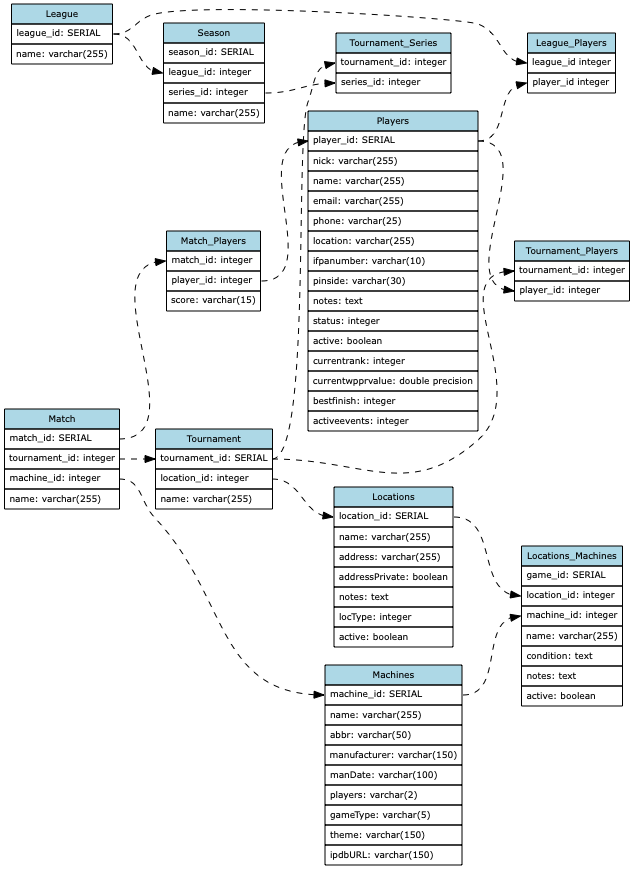
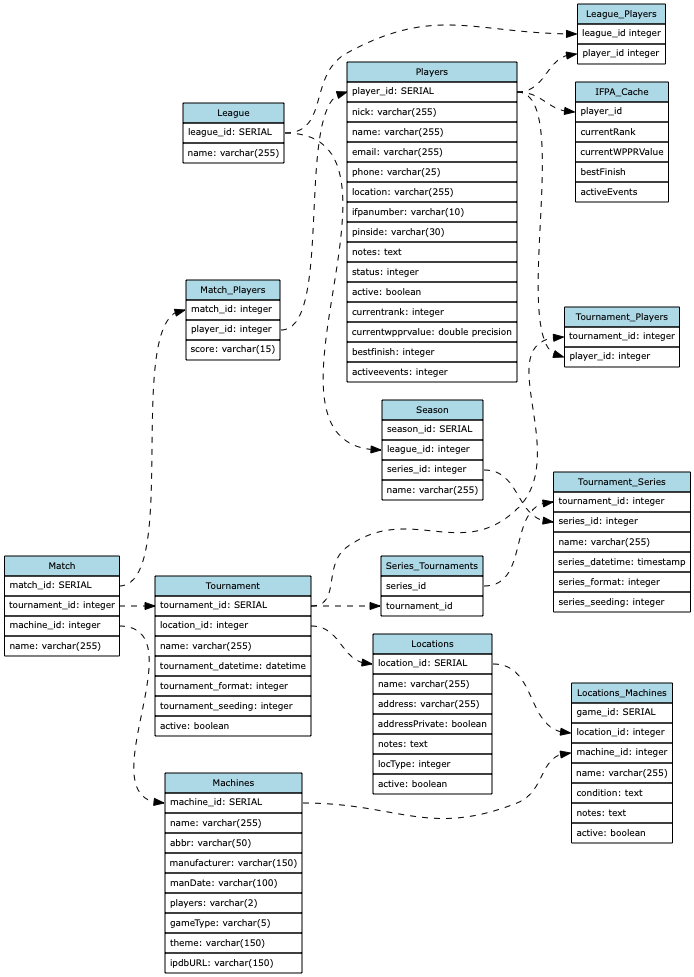
Adding stubb for tournament classes
Adjusted schema for association table tournament-series.

Will enable a series to have many tournaments.

Updated documentation and diagrams accordingly.

diff --git a/flask/run.py b/flask/run.py
@@ -4,6 +4,7 @@ from flask import Flask, jsonify
 from playfield import machine
 from playfield import player
 from playfield import location
+from playfield import tournament
 
 app = Flask(__name__)
 # Use Flask RESTful API
@@ -45,6 +46,21 @@ api.add_resource(location.AddGameToLocation, '/api/v1/resources/location/add_gam
 api.add_resource(location.UpdateGameOnLocation, '/api/v1/resources/location/update_game_on_location')
 api.add_resource(location.DeleteGameFromLocation, '/api/v1/resources/location/delete_game_from_location')
 api.add_resource(location.SetGameActive, '/api/v1/resources/location/set_game_active/<int:game_id><string:active>')
+
+api.add_resource(tournament.AllTournaments, '/api/v1/resources/tournaments/all_tournaments')
+api.add_resource(tournament.ActiveTournaments, '/api/v1/resources/tournaments/active_tournaments')
+api.add_resource(tournament.TournamentById, '/api/v1/resources/tournaments/tournament_by_id/<int:id>')
+api.add_resource(tournament.TournamentByName, '/api/v1/resources/tournaments/tournament_by_name/<string:name>')
+api.add_resource(tournament.TournamentByLocation, '/api/v1/resources/tournaments/tournament_by_location/<int:id>')
+api.add_resource(tournament.TournamentPlayers, '/api/v1/resources/tournaments/tournament_players/<int:id>')
+api.add_resource(tournament.AddTournament, '/api/v1/resources/tournaments/add_tournament')
+api.add_resource(tournament.UpdateTournament, '/api/v1/resources/tournaments/update_tournament')
+api.add_resource(tournament.DeleteTournament, '/api/v1/resources/tournaments/delete_tournament')
+api.add_resource(tournament.SetTournamentActive, '/api/v1/resources/tournaments/set_tournament_active/<int'
+                                                 ':tournament_id><string:active>')
+
+api.add_resource(tournament.AddTournamentPlayer, '/api/v1/resources/tournaments/add_tournament_player')
+api.add_resource(tournament.DeleteTournamentPlayer, '/api/v1/resources/tournaments/delete_tournament_player')
 
 # Define general non API endpoints
 deployed_version = "v1"

diff --git a/flask/playfield/tournament.py b/flask/playfield/tournament.py
@@ -1,0 +1,98 @@
+from flask import Flask, jsonify, request
+from flask_restful import Resource, Api
+from .response import Response
+from .data import Data
+
+field_names = [
+    "tournament_id",
+    "location_id",
+    "name",
+    "tournament_datetime",
+    "tournament_format",
+    "tournament_seeding",
+    "active"
+]
+
+
+class AllTournaments(Resource):
+
+    @staticmethod
+    def get():
+        print("ALL TOURNAMENTS!")
+
+
+class ActiveTournaments(Resource):
+
+    @staticmethod
+    def get():
+        print("ACTIVE TOURNAMENTS!")
+
+
+class TournamentById(Resource):
+
+    @staticmethod
+    def get(tournament_id):
+        print("TOURNAMENT BY: {}".format(tournament_id))
+
+
+class TournamentByName(Resource):
+
+    @staticmethod
+    def get(tournament_name):
+        print("TOURNAMENT BY: {}".format(tournament_name))
+
+
+class TournamentByLocation(Resource):
+
+    @staticmethod
+    def get(location_id):
+        print("ALL TOURNAMENTS AT LOCATION: {}".format(location_id))
+
+
+class TournamentPlayers(Resource):
+
+    @staticmethod
+    def get(tournament_id):
+        print("LIST ALL PLAYERS FOR TOURNAMENT: {}".format(tournament_id))
+
+
+class AddTournament(Resource):
+
+    @staticmethod
+    def post():
+        print("ADDING NEW TOURNAMENT")
+
+
+class UpdateTournament(Resource):
+
+    @staticmethod
+    def post():
+        print("UPDATING EXISTING TOURNAMENT")
+
+
+class DeleteTournament(Resource):
+
+    @staticmethod
+    def delete():
+        print("DELETING EXISTING TOURNAMENT")
+
+
+class SetTournamentActive(Resource):
+
+    @staticmethod
+    def get(tournament_id, active):
+        print("SETTING {} active={}".format(tournament_id, active))
+
+
+class AddTournamentPlayer(Resource):
+
+    @staticmethod
+    def post():
+        print("ADDING PLAYER TO TOURNAMENT")
+
+
+class DeleteTournamentPlayer(Resource):
+
+    @staticmethod
+    def post():
+        print("REMOVING PLAYER FROM TOURNAMENT")

diff --git a/README.md b/README.md
@@ -14,39 +14,52 @@ Intended to be deployed via Docker Compose
 
 API
 ---
-|Class       | Parameters | HTTP Request   | Description  |
-| :--------- |:---------| :------------- | :----------: |
-| machine  | None         | **GET** /machine/all_machines                           | List all machines currently added     |
-| machine  | machine_id   | **GET** /machine/machine_by_id/<id>                      | Get machines with provided id         |
-| machine  | machine_name | **GET** /machine/machine_by_name/<name>                 | Get machines with provided name       |
-| machine  | abbreviation | **GET** /machine/machine_by_abbr/<abbr>                 | Get machines with specific abbr       |
-| machine  | manufacturer | **GET** /machine/machine_by_manufacturer/<manufacturer> | Get machines by provided manufacturer |
-| machine  | machine spec | **PUT** /machine/add_machine                            | Add new machine to database           |
-| machine  | machine spec | **POST** /machine/update_machine                        | Update machine details                |
-| machine  | machine_id   | **DELETE** /machine/delete_machine                      | Remove machine from database          |
-| player   | None         | **GET** /player/all_players                             | List all players currently added      |
-| player   |              | **GET** /player/active_players                          | List all players that are active      |
-| player   | player_id    | **GET** /player/player_by_id/<id>                       | Lookup player by id                   |
-| player   | player_name  | **GET** /player/player_by_name/<name>                   | Lookup player by name                 |
-| player   | player spec  | **PUT** /player/add_player                              | Add new player to database            |
-| player   | player spec  | **POST** /player/update_player                          | Update player details                 |
-| player   | player_id    | **DELETE** /player/delete_player                        | Delete player from database           |
-| player   |              | **GET** /player/set_status/<player_id>/<status>         | Update player status                  |
-| player   |              | **GET** /player/set_active/<player_id>/<active>         | Update player active                  |
-| location | None         | **GET** /location/all_locations                         | List all locations                    |
-| location |              | **GET** /location/playable_locations                    | List active locations and number of active games at location |
-| location | location_id  | **GET** /location/location_by_id/<id>                   | List location by id                   |
-| location | location_name| **GET** /location/location_by_name/<name>               | List location by specific name        |
-| location | location_spec| **PUT** /location/add_location                          | Add new location to database          |
-| location | location_spec| **POST** /location/update_location                      | Update location details               |
-| location | location_id  | **DELETE** /location/delete_location                    | Delete location from database         |
-| location |              | **GET** /location/set_active/<location_id>/<active>     | Set active on location                |
-| location |              | **GET** /location/all_machines_for_location/<location_id> | Get all machines at a location      |
-| location |              | **GET** /location/active_machines_for_location/<location_id> | Get all active machines at a location |
-| location |              | **POST** /location/add_game_to_location                 | Add game to a location                |
-| location |              | **POST** /location/update_game_on_location              | Update game at a location             |
-| location |              | **DELETE** /location/delete_game_from_location          | Delete game from a location           |
-| location |              | **GET** /location/set_game_active/<game_id><active>     | Set active on game at a location      |
+|Class       | Parameters    | HTTP Request                                                 | Description                                                  |
+| :--------- |:--------------| :----------------------------------------------------------- | :----------------------------------------------------------: |
+| machine    | None          | **GET** /machine/all_machines                                | List all machines currently added                            |
+| machine    | machine_id    | **GET** /machine/machine_by_id/<id>                          | Get machines with provided id                                |
+| machine    | machine_name  | **GET** /machine/machine_by_name/<name>                      | Get machines with provided name                              |
+| machine    | abbreviation  | **GET** /machine/machine_by_abbr/<abbr>                      | Get machines with specific abbr                              |
+| machine    | manufacturer  | **GET** /machine/machine_by_manufacturer/<manufacturer>      | Get machines by provided manufacturer                        |
+| machine    | machine spec  | **POST** /machine/add_machine                                | Add new machine to database                                  |
+| machine    | machine spec  | **POST** /machine/update_machine                             | Update machine details                                       |
+| machine    | machine_id    | **DELETE** /machine/delete_machine                           | Remove machine from database                                 |
+| player     | None          | **GET** /player/all_players                                  | List all players currently added                             |
+| player     |               | **GET** /player/active_players                               | List all players that are active                             |
+| player     | player_id     | **GET** /player/player_by_id/<id>                            | Lookup player by id                                          |
+| player     | player_name   | **GET** /player/player_by_name/<name>                        | Lookup player by name                                        |
+| player     | player spec   | **POST** /player/add_player                                  | Add new player to database                                   |
+| player     | player spec   | **POST** /player/update_player                               | Update player details                                        |
+| player     | player_id     | **DELETE** /player/delete_player                             | Delete player from database                                  |
+| player     |               | **GET** /player/set_status/<player_id>/<status>              | Update player status                                         |
+| player     |               | **GET** /player/set_active/<player_id>/<active>              | Update player active                                         |
+| location   | None          | **GET** /location/all_locations                              | List all locations                                           |
+| location   |               | **GET** /location/playable_locations                         | List active locations and number of active games at location |
+| location   | location_id   | **GET** /location/location_by_id/<id>                        | List location by id                                          |
+| location   | location_name | **GET** /location/location_by_name/<name>                    | List location by specific name                               |
+| location   | location_spec | **POST** /location/add_location                              | Add new location to database                                 |
+| location   | location_spec | **POST** /location/update_location                           | Update location details                                      |
+| location   | location_id   | **DELETE** /location/delete_location                         | Delete location from database                                |
+| location   |               | **GET** /location/set_active/<location_id>/<active>          | Set active on location                                       |
+| location   |               | **GET** /location/all_machines_for_location/<location_id>    | Get all machines at a location                               |
+| location   |               | **GET** /location/active_machines_for_location/<location_id> | Get all active machines at a location                        |
+| location   |               | **POST** /location/add_game_to_location                      | Add game to a location                                       |
+| location   |               | **POST** /location/update_game_on_location                   | Update game at a location                                    |
+| location   |               | **DELETE** /location/delete_game_from_location               | Delete game from a location                                  |
+| location   |               | **GET** /location/set_game_active/<game_id><active>          | Set active on game at a location                             |
+| tournament |               | **GET** /tournament/all_tournaments                          | List all tournament                                          |
+| tournament |               | **GET** /tournament/active_tournaments                       | List all active tournaments                                  |
+| tournament | tournament_id | **GET** /tournament/tournament_by_id                         | List tournament by ID                                        |
+| tournament | name          | **GET** /tournament/tournament_by_name                       | List tournament by Name                                      |
+| tournament | location_id   | **GET** /tournament/tournament_by_location                   | List tournaments at a location                               |
+| tournament | tournament_id | **GET** /tournament/tournament_players                       | List players associated with a tournament                    |
+| tournament |               | **POST** /tournament/add_tournament                          | Add a new tournament                                         |
+| tournament |               | **POST** /tournament/update_tournament                       | Update a tournament                                          |
+| tournament |               | **GET** /tournament/set_active/<tournament_id>/<active>      | Set active on a tournament                                   |
+| tournament |               | **DELETE** /tournament/delete_tournament                     | Delete tournament from database                              |
+| tournament |               | **POST** /tournament/add_tournament_player                   | Add a player to a tournament                                 |
+| tournament |               | **POST** /tournament/delete_tournament_player                | Delete a player from a tournament                            |
+
 
 JSON Format:
 ------------
@@ -99,7 +112,7 @@ Operations:
 
 Diagrams:
 ---------
-Diagrams (*.gz) in the diagrams/ directory are GraphViz format and can be converted into png by running `dot -Tpng -O bin_tree.dot`
+Diagrams (*.gz) in the diagrams/ directory are GraphViz format and can be converted into png by running `dot -Tpng -O ER-Diagram.gv`
 
 Run Locally:
 ------------
